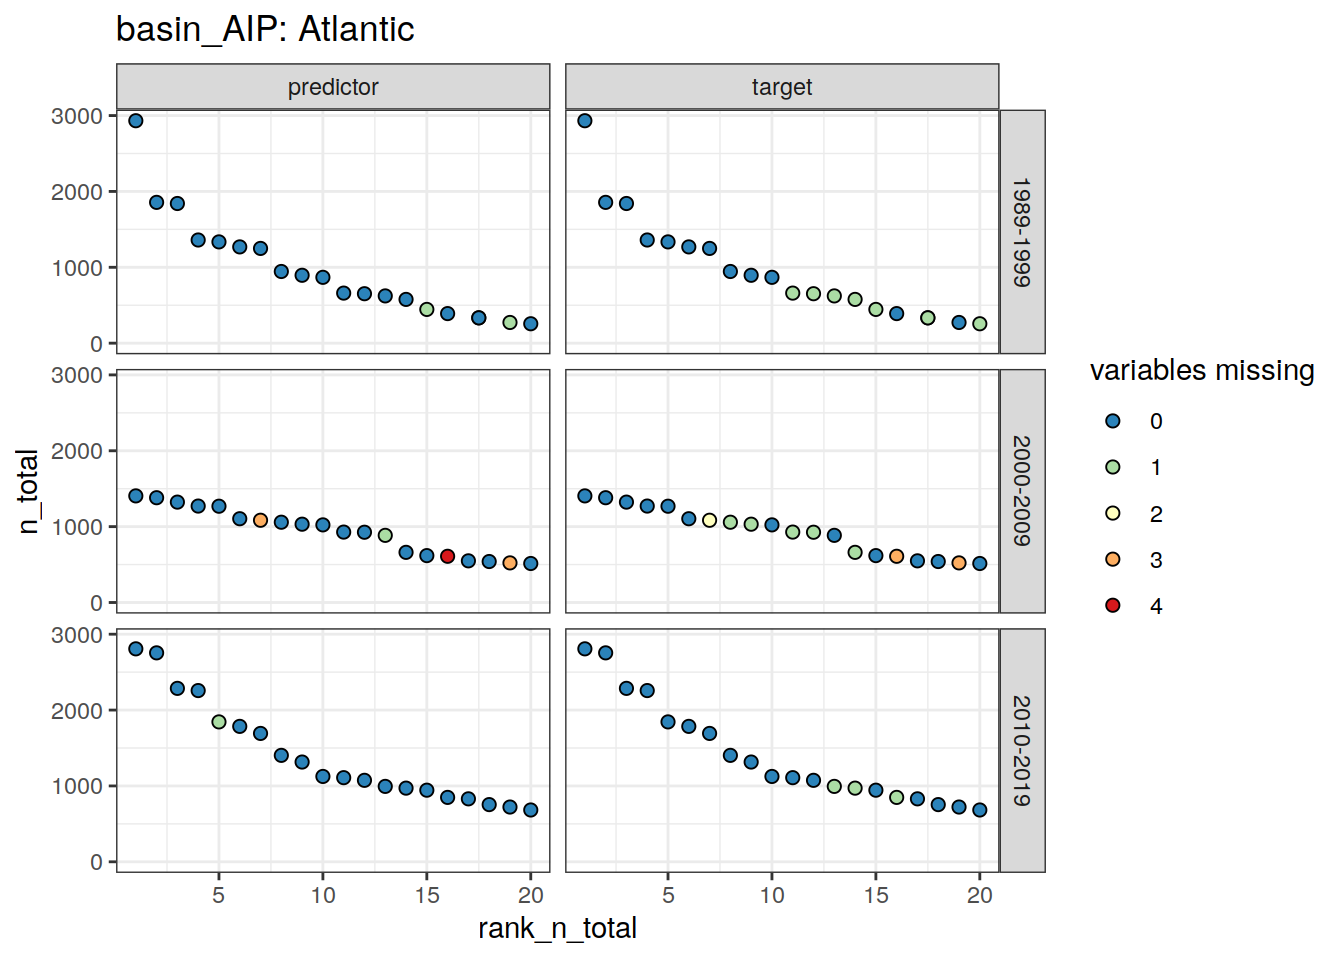
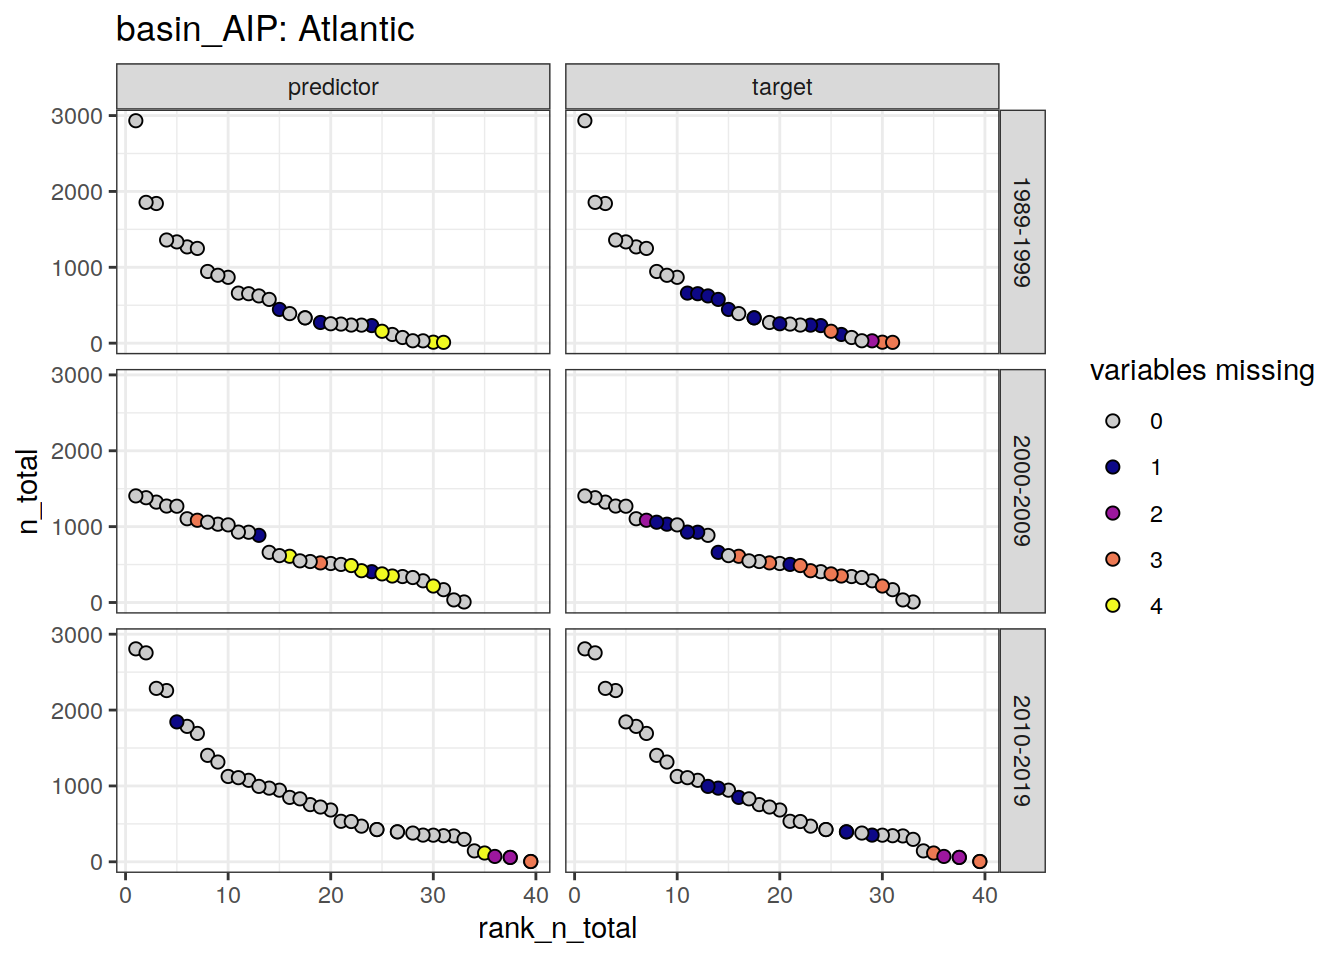
Build site.

diff --git a/docs/read_GLODAPv2_2021.html b/docs/read_GLODAPv2_2021.html
@@ -446,7 +446,7 @@ div.tocify {
 
 <h1 class="title toc-ignore">GLODAPv2_2020</h1>
 <h4 class="author">Jens Daniel Müller</h4>
-<h4 class="date">15 December, 2021</h4>
+<h4 class="date">16 December, 2021</h4>
 
 </div>
 
@@ -471,7 +471,7 @@ div.tocify {
 <div class="tab-content">
 <div id="summary" class="tab-pane fade in active">
 <p>
-<strong>Last updated:</strong> 2021-12-15
+<strong>Last updated:</strong> 2021-12-16
 </p>
 <p>
 <strong>Checks:</strong> <span class="glyphicon glyphicon-ok text-success" aria-hidden="true"></span> 7 <span class="glyphicon glyphicon-exclamation-sign text-danger" aria-hidden="true"></span> 0
@@ -562,16 +562,16 @@ This reproducible <a href="http://rmarkdown.rstudio.com">R Markdown</a> analysis
 <div class="panel panel-default">
 <div class="panel-heading">
 <p class="panel-title">
-<a data-toggle="collapse" data-parent="#workflowr-checks" href="#strongRepositoryversionstrongahrefhttpsgithubcomjensdanielmuelleremlrobspreprocessingtreebe2f94e6cdf948e4e720e156f1e48e6b55e2e75ftargetblankbe2f94ea"> <span class="glyphicon glyphicon-ok text-success" aria-hidden="true"></span> <strong>Repository version:</strong> <a href="https://github.com/jens-daniel-mueller/emlr_obs_preprocessing/tree/be2f94e6cdf948e4e720e156f1e48e6b55e2e75f" target="_blank">be2f94e</a> </a>
+<a data-toggle="collapse" data-parent="#workflowr-checks" href="#strongRepositoryversionstrongahrefhttpsgithubcomjensdanielmuelleremlrobspreprocessingtree8db3760ee1f6228496f29dbcb2335331c497bbeftargetblank8db3760a"> <span class="glyphicon glyphicon-ok text-success" aria-hidden="true"></span> <strong>Repository version:</strong> <a href="https://github.com/jens-daniel-mueller/emlr_obs_preprocessing/tree/8db3760ee1f6228496f29dbcb2335331c497bbef" target="_blank">8db3760</a> </a>
 </p>
 </div>
[2 lines of base64/hex data omitted]
 <div class="panel-body">
 <p>
 Great! You are using Git for version control. Tracking code development and connecting the code version to the results is critical for reproducibility.
 </p>
 <p>
-The results in this page were generated with repository version <a href="https://github.com/jens-daniel-mueller/emlr_obs_preprocessing/tree/be2f94e6cdf948e4e720e156f1e48e6b55e2e75f" target="_blank">be2f94e</a>. See the <em>Past versions</em> tab to see a history of the changes made to the R Markdown and HTML files.
+The results in this page were generated with repository version <a href="https://github.com/jens-daniel-mueller/emlr_obs_preprocessing/tree/8db3760ee1f6228496f29dbcb2335331c497bbef" target="_blank">8db3760</a>. See the <em>Past versions</em> tab to see a history of the changes made to the R Markdown and HTML files.
 </p>
 <p>
 Note that you need to be careful to ensure that all relevant files for the analysis have been committed to Git prior to generating the results (you can use <code>wflow_publish</code> or <code>wflow_git_commit</code>). workflowr only checks the R Markdown file, but you know if there are other scripts or data files that it depends on. Below is the status of the Git repository when the results were generated:
@@ -623,6 +623,40 @@ Message
 </tr>
 </thead>
 <tbody>
+<tr>
+<td>
+Rmd
+</td>
+<td>
+<a href="https://github.com/jens-daniel-mueller/emlr_obs_preprocessing/blob/8db3760ee1f6228496f29dbcb2335331c497bbef/analysis/read_GLODAPv2_2021.Rmd" target="_blank">8db3760</a>
+</td>
+<td>
+jens-daniel-mueller
+</td>
+<td>
+2021-12-16
+</td>
+<td>
+plot maps of f and qc data loss
+</td>
+</tr>
+<tr>
+<td>
+html
+</td>
+<td>
+<a href="https://rawcdn.githack.com/jens-daniel-mueller/emlr_obs_preprocessing/61d5f49e8cb65a85b95b1f76f83ce249cb97ded9/docs/read_GLODAPv2_2021.html" target="_blank">61d5f49</a>
+</td>
+<td>
+jens-daniel-mueller
+</td>
+<td>
+2021-12-15
+</td>
+<td>
+Build site.
+</td>
+</tr>
 <tr>
 <td>
 Rmd
@@ -2490,18 +2524,20 @@ loss_qc_cruise &lt;- loss_qc %&gt;%
   ungroup() %&gt;% 
   pivot_longer(predictor:target,
                names_to = &quot;parameter_class&quot;,
-               values_to = &quot;loss&quot;)
+               values_to = &quot;loss&quot;) %&gt;% 
+  mutate(loss = as.factor(loss))
 
+grey_plasma &lt;- c(&quot;grey80&quot;, viridisLite::plasma(4))
 
 loss_qc_cruise %&gt;%
-  filter(rank_n_total &lt;= 20) %&gt;%
+  # filter(rank_n_total &lt;= 20) %&gt;%
   group_split(basin_AIP) %&gt;%
   # head(1) %&gt;%
   map(
     ~ ggplot(data = .x,
-             aes(rank_n_total, n_total, fill = as.factor(loss))) +
+             aes(rank_n_total, n_total, fill = loss)) +
       geom_point(shape = 21, size = 2) +
-      scale_fill_brewer(palette = &quot;Spectral&quot;, direction = -1,
+      scale_fill_manual(values = grey_plasma,
                         name = &quot;variables missing&quot;) +
       facet_grid(decade ~ parameter_class) +
       labs(title = paste(&quot;basin_AIP:&quot;, unique(.x$basin_AIP))) +
@@ -2627,7 +2663,7 @@ jens-daniel-mueller
 </div>
 </div>
 <pre class="r"><code>loss_qc_cruise %&gt;% 
-  filter(loss &gt; 0, rank_n_total &lt;= 20) %&gt;% 
+  filter(loss != 0, rank_n_total &lt;= 20) %&gt;% 
   select(basin_AIP, decade, parameter_class, rank_n_total, cruise_expocode) %&gt;% 
   arrange(basin_AIP, decade, parameter_class, rank_n_total) %&gt;% 
   kable() %&gt;% 
@@ -3505,6 +3541,21 @@ target
 </tr>
 </tbody>
 </table>
+<pre class="r"><code>loss_grid &lt;- loss %&gt;% distinct(lon, lat, cruise_expocode)
+
+loss_qc_grid &lt;- left_join(loss_qc_cruise,
+                          loss_grid)
+
+
+map +
+  geom_tile(data = loss_qc_grid,
+            aes(lon, lat), fill = &quot;grey50&quot;) +
+  geom_tile(data = loss_qc_grid %&gt;%
+              filter(rank_n_total &lt;= 20),
+            aes(lon, lat, fill = loss)) +
+  facet_grid(decade ~ parameter_class) +
+  scale_fill_manual(values = grey_plasma)</code></pre>
+<p><img src="figure/read_GLODAPv2_2021.Rmd/qc_loss_maps-1.png" width="672" style="display: block; margin: auto;" /></p>
 </div>
 <div id="f-1" class="section level3" number="3.3.2">
 <h3 number="3.3.2"><span class="header-section-number">3.3.2</span> f</h3>
@@ -3547,7 +3598,8 @@ loss_f_cruise &lt;- loss_f %&gt;%
   ungroup() %&gt;% 
   pivot_longer(predictor:target,
                names_to = &quot;parameter_class&quot;,
-               values_to = &quot;loss&quot;)
+               values_to = &quot;loss&quot;) %&gt;% 
+  mutate(loss = as.factor(loss))
 
 
 loss_f_cruise %&gt;%
@@ -3684,7 +3736,7 @@ jens-daniel-mueller
 </div>
 </div>
 <pre class="r"><code>loss_f_cruise %&gt;% 
-  filter(loss &gt; 0, rank_n_total &lt;= 20) %&gt;% 
+  filter(loss != 0, rank_n_total &lt;= 20) %&gt;% 
   select(basin_AIP, decade, parameter_class, rank_n_total, cruise_expocode) %&gt;% 
   arrange(basin_AIP, decade, parameter_class, rank_n_total) %&gt;% 
   kable() %&gt;% 
@@ -4392,6 +4444,19 @@ target
 </tr>
 </tbody>
 </table>
+<pre class="r"><code>loss_f_grid &lt;- left_join(loss_f_cruise,
+                          loss_grid)
+
+
+map +
+  geom_tile(data = loss_f_grid,
+            aes(lon, lat), fill = &quot;grey50&quot;) +
+  geom_tile(data = loss_f_grid %&gt;%
+              filter(rank_n_total &lt;= 20),
+            aes(lon, lat, fill = loss)) +
+  facet_grid(decade ~ parameter_class) +
+  scale_fill_manual(values = grey_plasma)</code></pre>
+<p><img src="figure/read_GLODAPv2_2021.Rmd/f_loss_maps-1.png" width="672" style="display: block; margin: auto;" /></p>
 </div>
 </div>
 <div id="p18-phosphate" class="section level2" number="3.4">
@@ -5106,6 +5171,17 @@ Date
 </tr>
 </thead>
 <tbody>
+<tr>
+<td>
+<a href="https://github.com/jens-daniel-mueller/emlr_obs_preprocessing/blob/61d5f49e8cb65a85b95b1f76f83ce249cb97ded9/docs/figure/read_GLODAPv2_2021.Rmd/IO_1990_CRM-2.png" target="_blank">61d5f49</a>
+</td>
+<td>
+jens-daniel-mueller
+</td>
+<td>
+2021-12-15
+</td>
+</tr>
 <tr>
 <td>
 <a href="https://github.com/jens-daniel-mueller/emlr_obs_preprocessing/blob/d454df103852aad797d8c063e0526c9b98a67647/docs/figure/read_GLODAPv2_2021.Rmd/IO_1990_CRM-2.png" target="_blank">d454df1</a>
